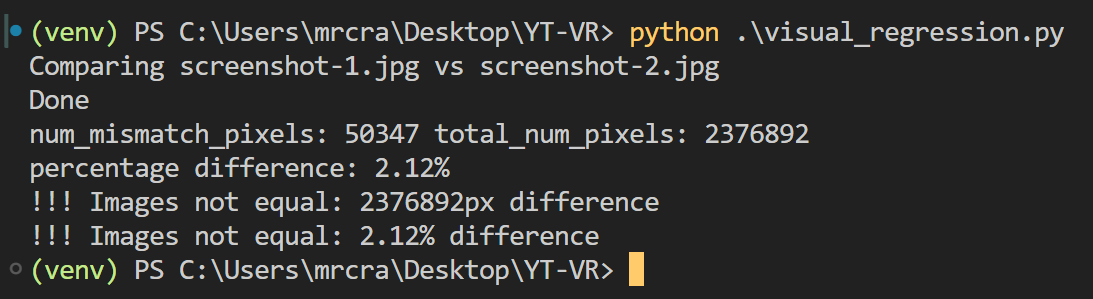
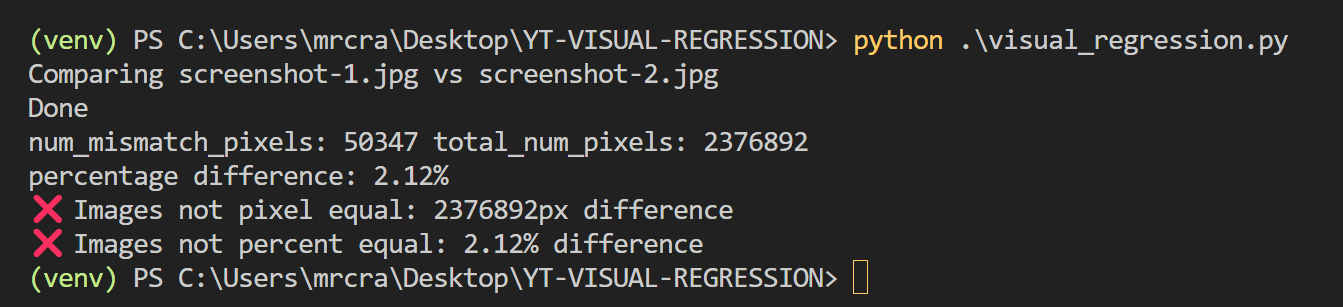
add emojis

diff --git a/visual_regression.py b/visual_regression.py
@@ -42,9 +42,9 @@ def vr(img1, img2, per_diff=0.1, pix_diff=100):
     # small dot gives = 193
     # identical has mismatch = 6867
     if num_pixels > pix_diff:
-        print(f"!!! Images not equal: {num_pixels}px difference")
+        print(f"❌ Images not pixel equal: {num_pixels}px difference")
     if percentage_diff > per_diff:
-        print(f"!!! Images not equal: {round(percentage_diff,2)}% difference")
+        print(f"❌ Images not percent equal: {round(percentage_diff,2)}% difference")
 
     img_diff.save(f"./diff_pixelmatch_{img1}__v__{img2}_{randint(1000, 9999)}.png")
 

diff --git a/README.md b/README.md
@@ -2,9 +2,12 @@
 
 Given two images screenshot-1.jpg and screenshot-2.jpg, `visual_regression.py` will produce two images:
 
-- 1. `diff__pil_screenshot-1.jpg__v__screenshot-2.jpg_1288.png` shows highlights difference.
-- 2. `diff_pixelmatch_screenshot-1.jpg__v__screenshot-2.jpg_7152.png` is an image just of the difference.
+- `diff__pil_screenshot-1.jpg__v__screenshot-2.jpg_1288.png` shows highlights difference.
+- `diff_pixelmatch_screenshot-1.jpg__v__screenshot-2.jpg_7152.png` is an image just of the difference.
 
 `visual_regrssion.py` is customisable and outputs the following:
 
 ![output](./_images/output.png)
+
+For a test, we can set levels of difference either by pixels or percentage:
+
